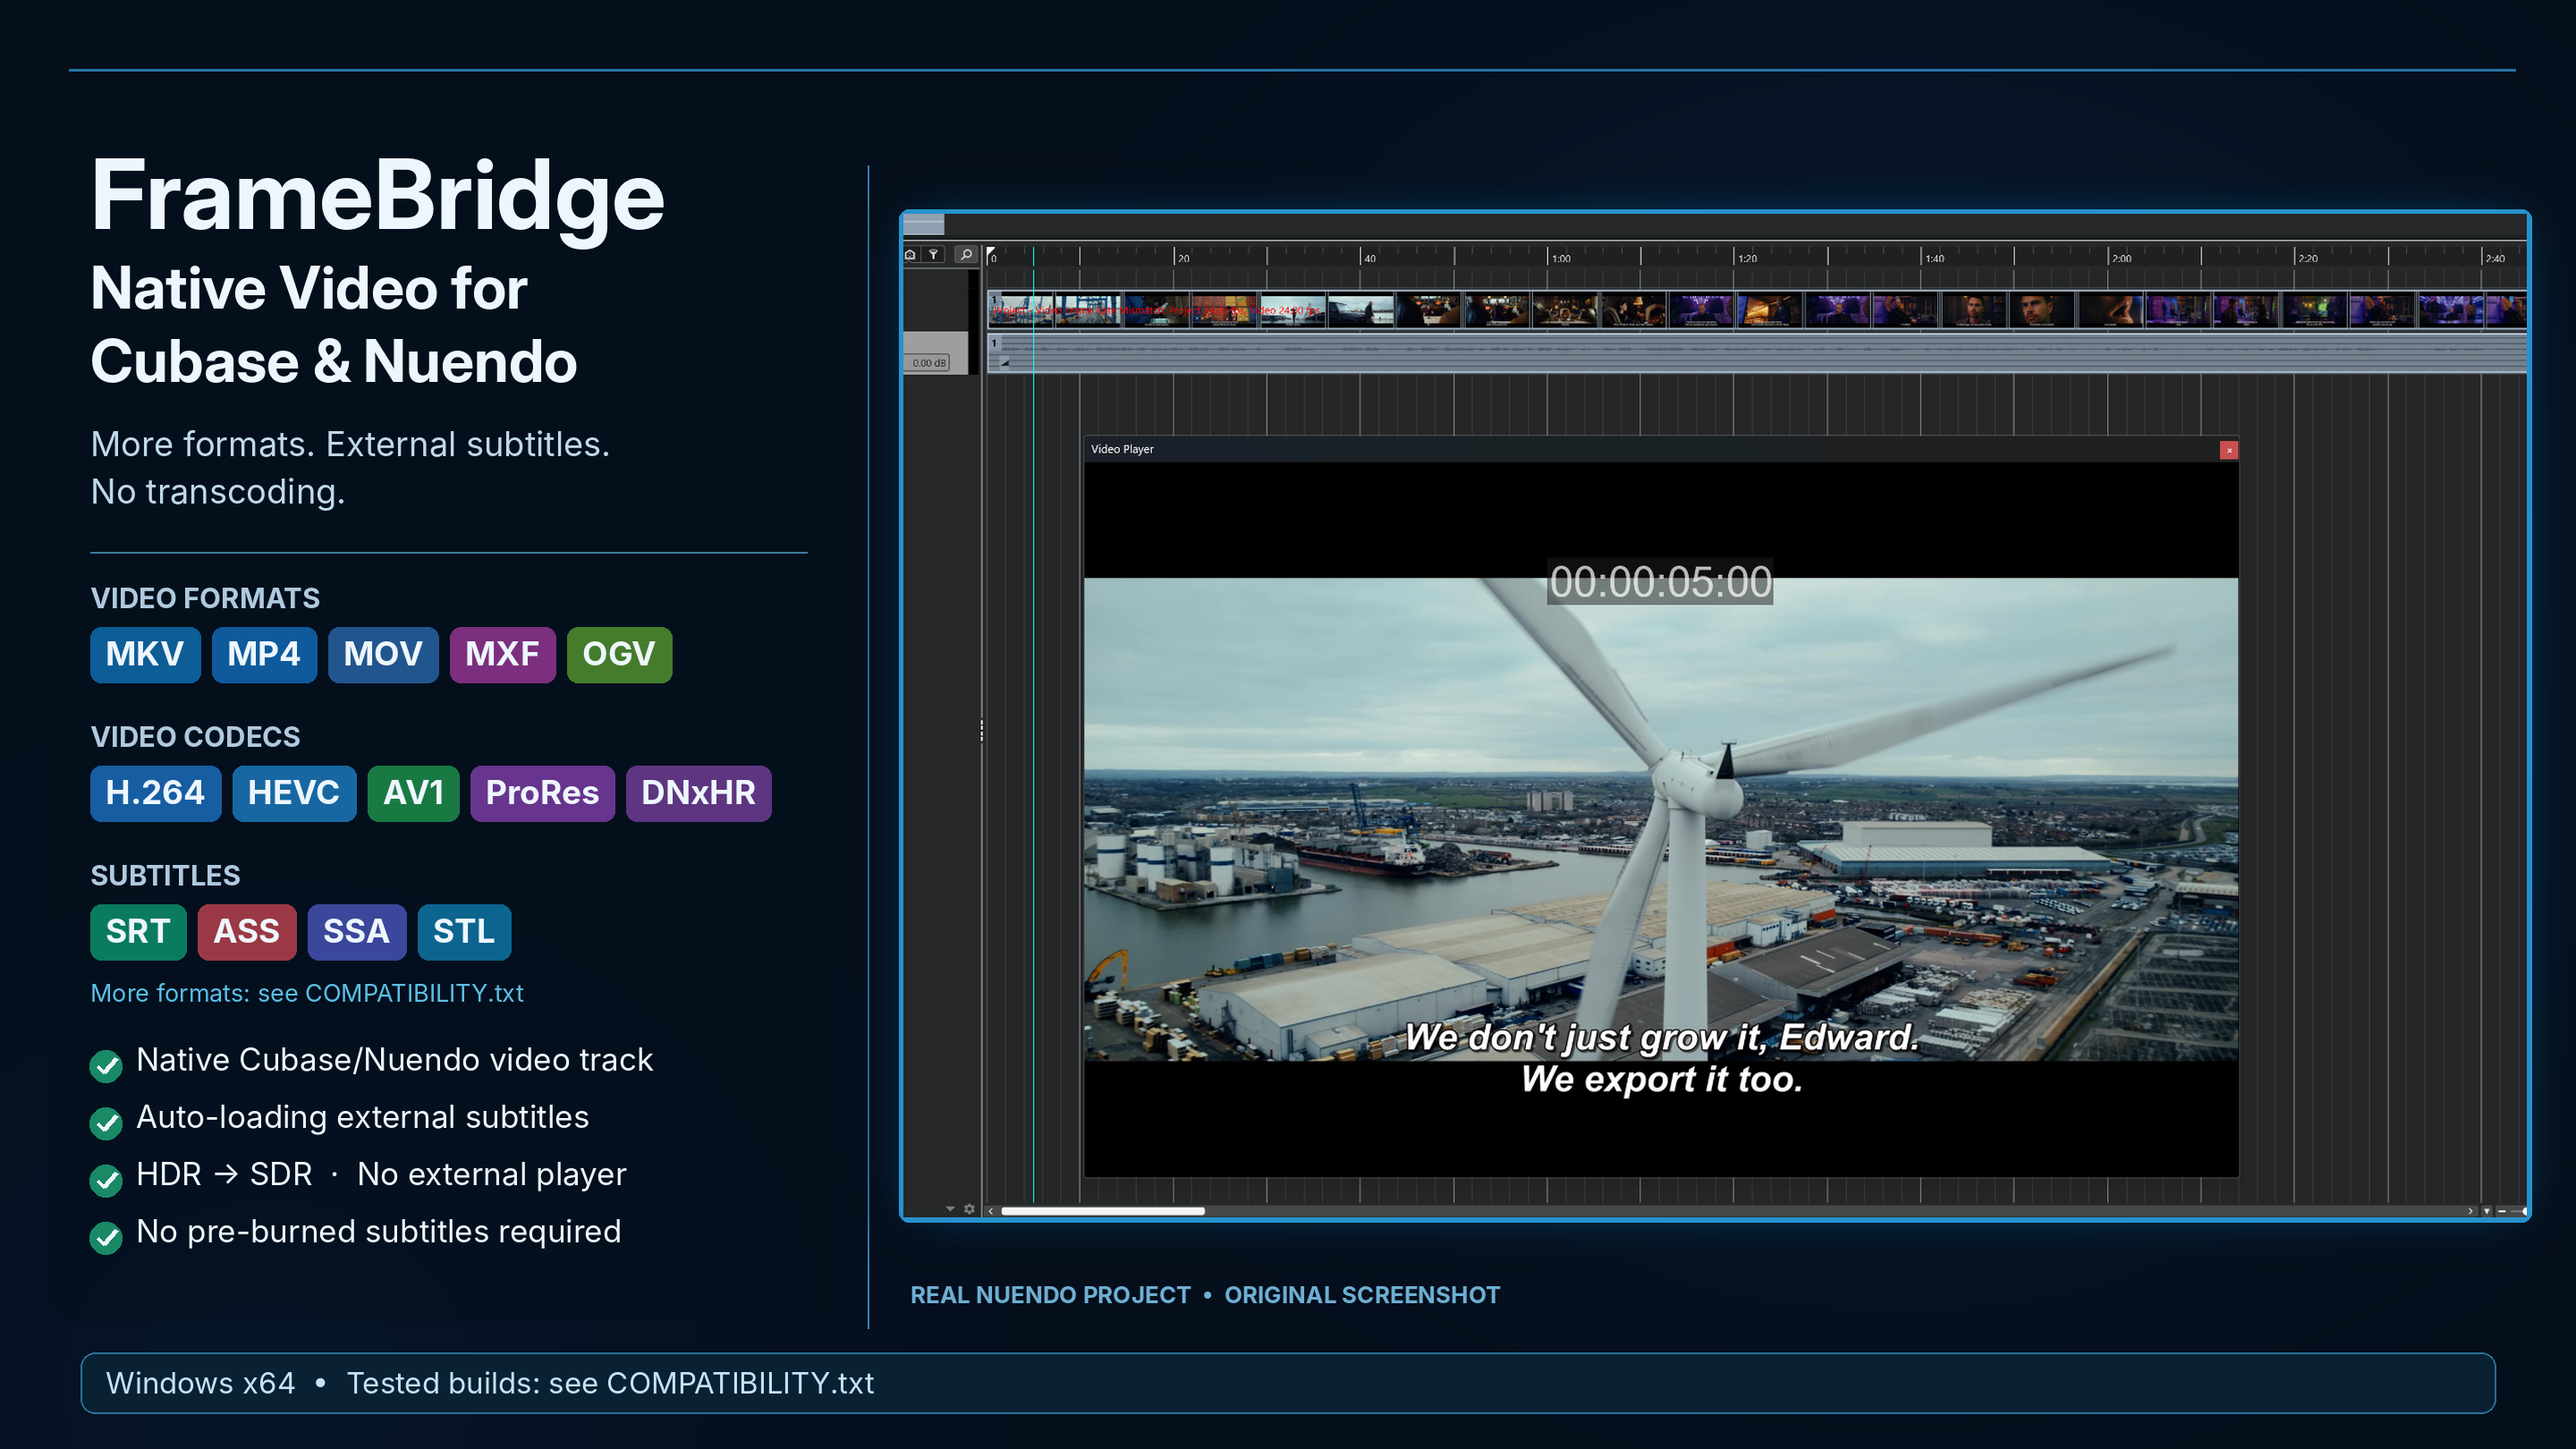
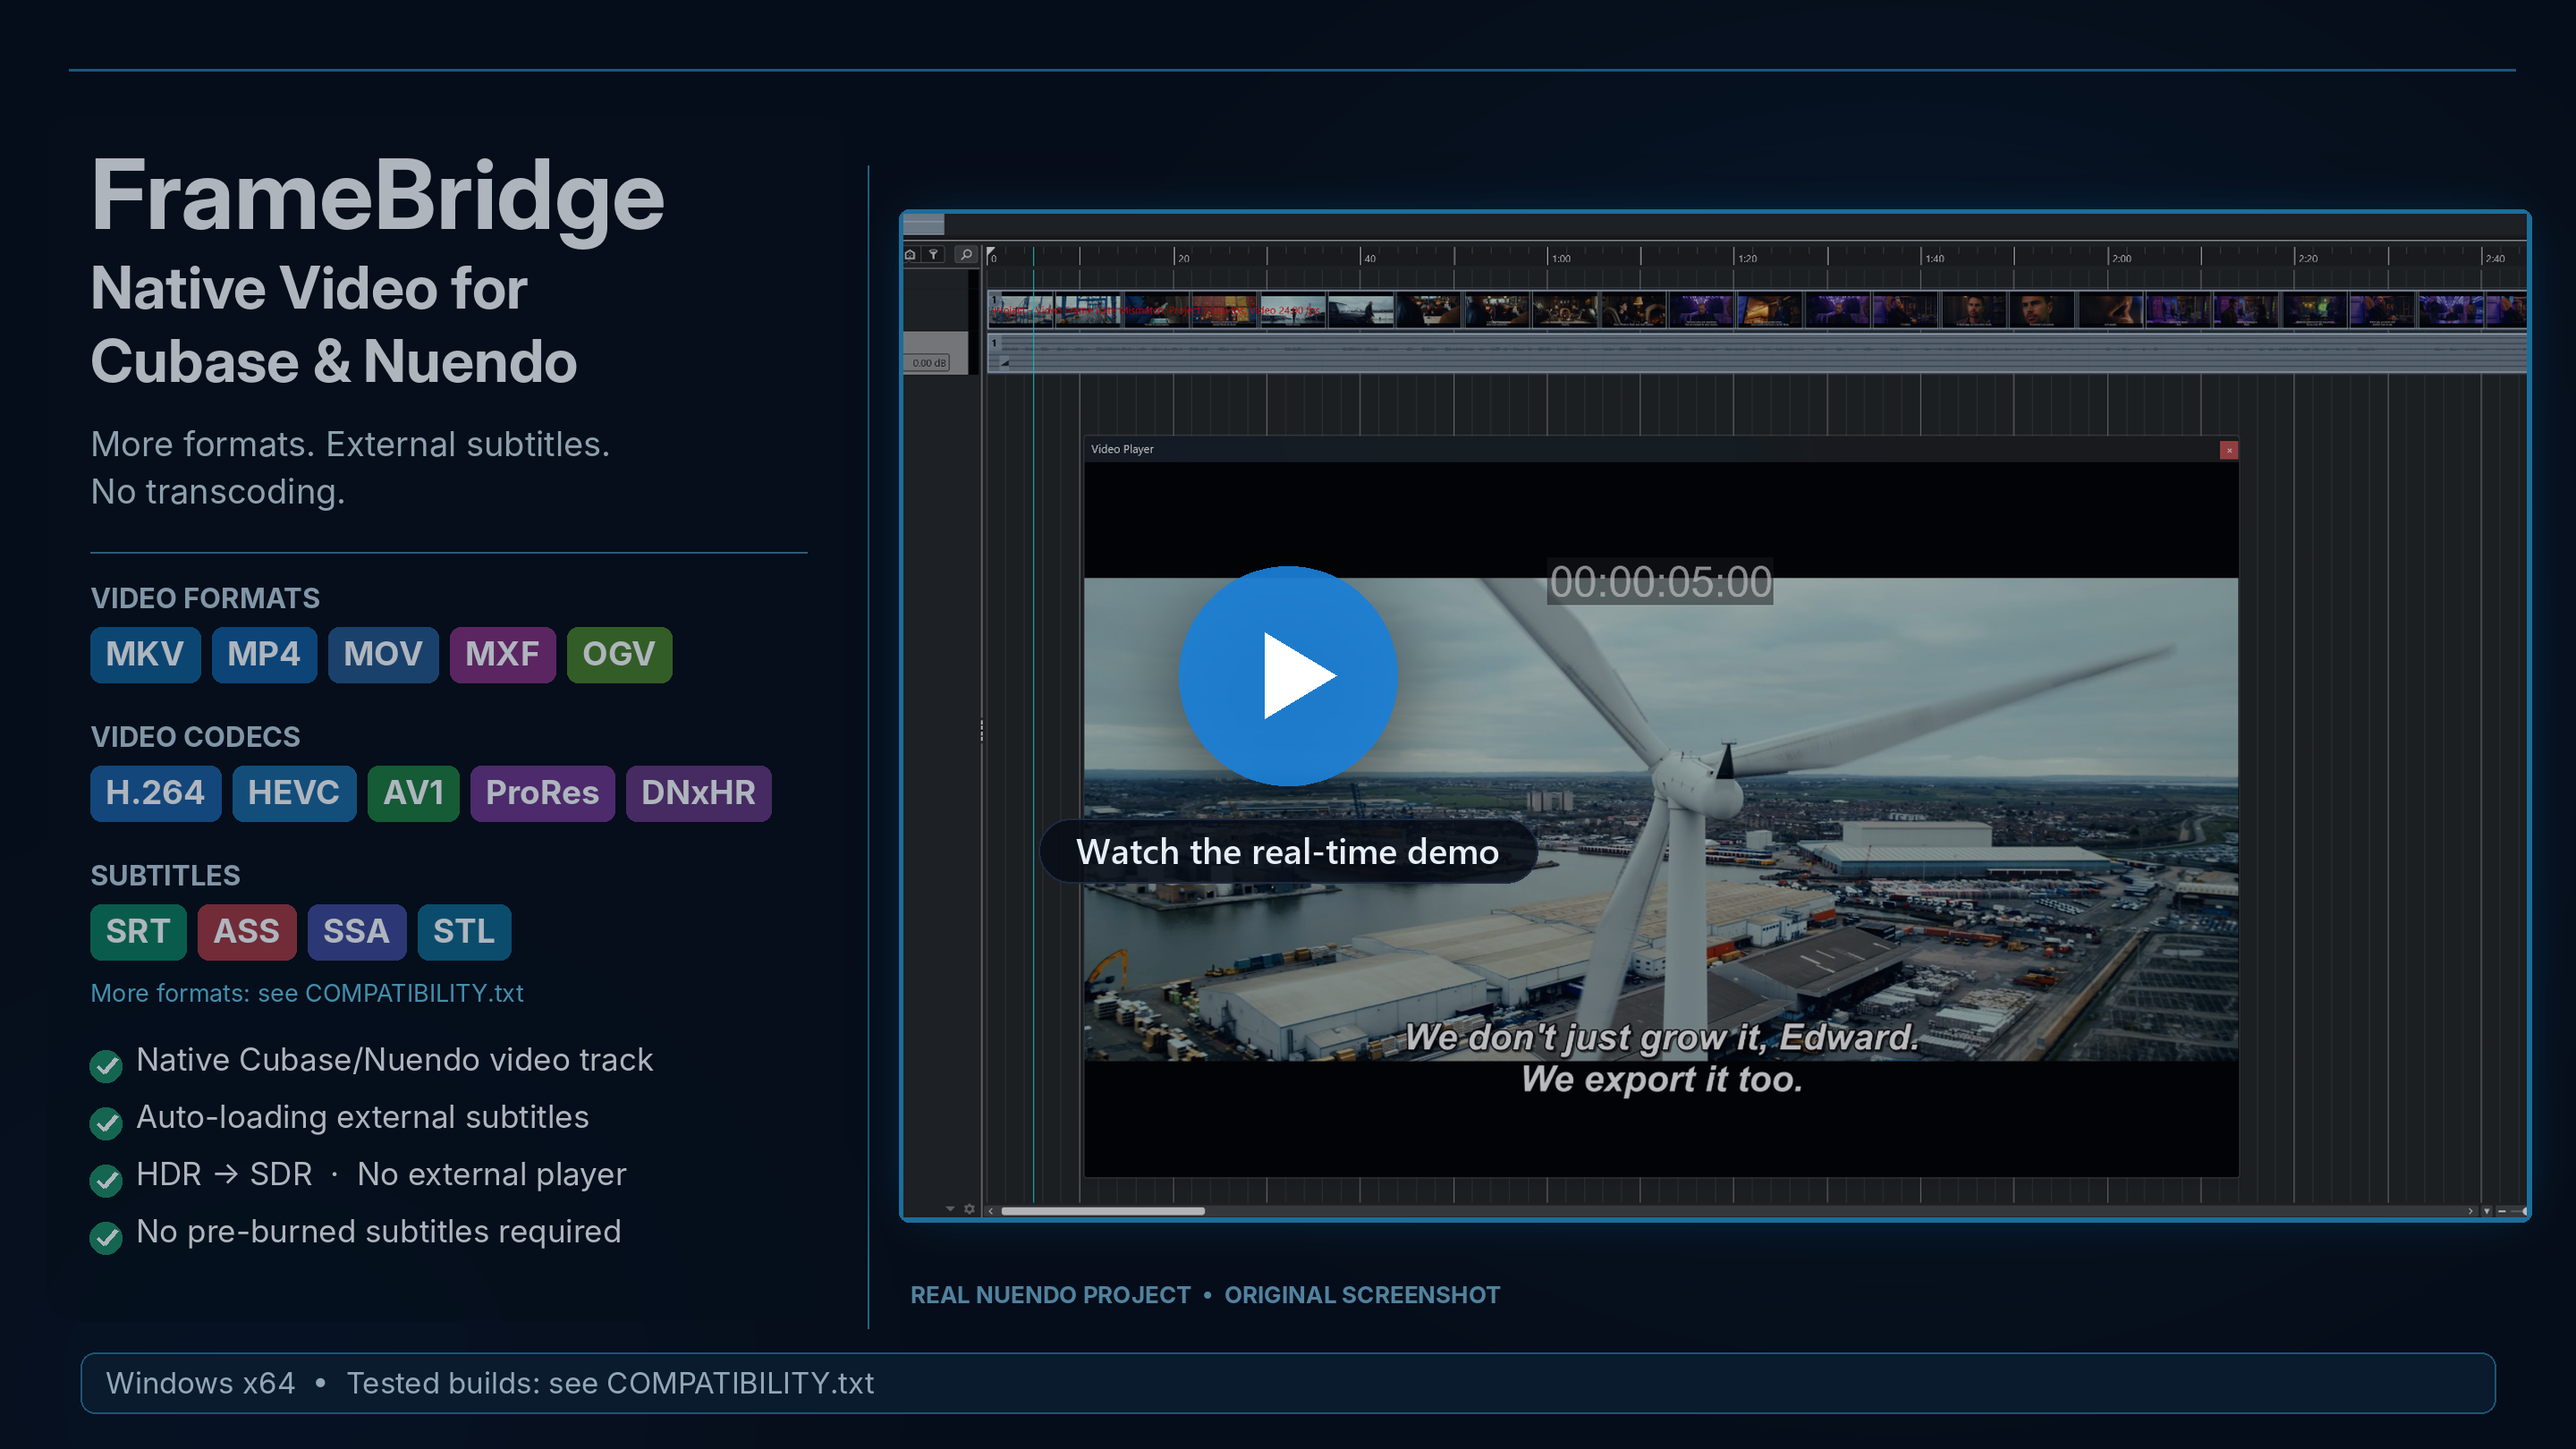
README: demo poster with play button links to the video

diff --git a/README.md b/README.md
@@ -1,6 +1,6 @@
 # FrameBridge — Native Video & External Subtitles for Cubase & Nuendo
 
-![FrameBridge running on the native Nuendo video track](poster.png)
+[![FrameBridge running on the native Nuendo video track — click to watch the demo](poster.png)](https://youtu.be/NjNHtkc8-OE)
 
 **Website: [framebridge.cc](https://framebridge.cc)** · [Watch the FrameBridge demonstration on YouTube](https://youtu.be/NjNHtkc8-OE)
 
